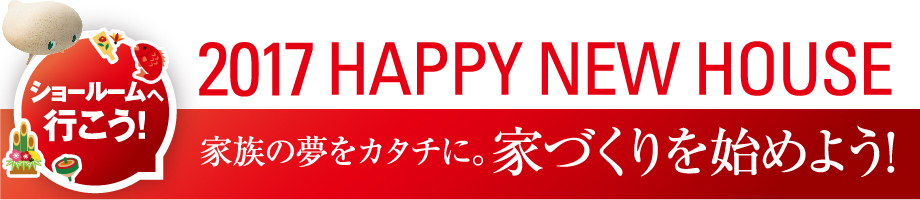
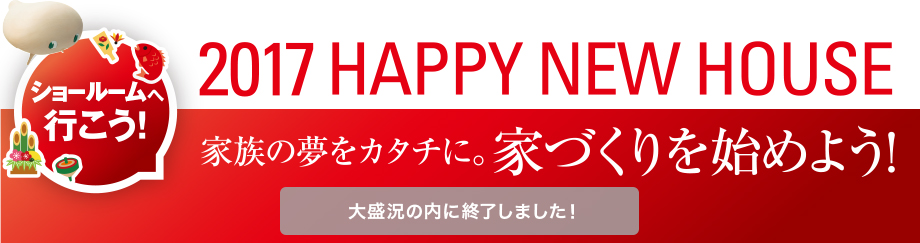
LPクローズド対応_PC

diff --git a/docs/pc/20170110.html b/docs/pc/20170110.html
@@ -45,105 +45,8 @@
                 </div>
 
                 <div class="section is-25">
-                    <div class="indexMapWrap mb-30 clearfix">
-                        <div class="mapWrap">
-                            <ul style="top: 40px; right: 0;">
-                                <li><a href="/ie/event/ken/1" style="background-image: url(http://sfc.jp/ie/event/images/ph2/map/btn-hokkaido.png);">北海道</a></li>
-                            </ul>
-
-                            <ul style="top: 40px; left: 286px;">
-                                <li><a href="/ie/event/ken/16" style="background-image: url(http://sfc.jp/ie/event/images/ph2/map/btn-toyama.png);">富山</a></li>
-                                <li><a href="/ie/event/ken/17" style="background-image: url(http://sfc.jp/ie/event/images/ph2/map/btn-ishikawa.png);">石川</a></li>
-                                <li><a href="/ie/event/ken/18" style="background-image: url(http://sfc.jp/ie/event/images/ph2/map/btn-fukui.png);">福井</a></li>
-                            </ul>
-
-                            <ul style="top: 40px; left: 344px;">
-                                <li><a href="/ie/event/ken/15" style="background-image: url(http://sfc.jp/ie/event/images/ph2/map/btn-niigata.png);">新潟</a></li>
-                                <li><a href="/ie/event/ken/20" style="background-image: url(http://sfc.jp/ie/event/images/ph2/map/btn-nagano.png);">長野</a></li>
-                                <li><a href="/ie/event/ken/19" style="background-image: url(http://sfc.jp/ie/event/images/ph2/map/btn-yamanashi.png);">山梨</a></li>
-                            </ul>
-
-                            <ul style="top: 90px; left: 200px;">
-                                <li><a href="/ie/event/ken/25" style="background-image: url(http://sfc.jp/ie/event/images/ph2/map/btn-shiga.png);">滋賀</a></li>
-                                <li><a href="/ie/event/ken/26" style="background-image: url(http://sfc.jp/ie/event/images/ph2/map/btn-kyoto.png);">京都</a></li>
-                                <li><a href="/ie/event/ken/29" style="background-image: url(http://sfc.jp/ie/event/images/ph2/map/btn-nara.png);">奈良</a></li>
-                            </ul>
-
-                            <ul style="top: 90px; left: 142px;">
-                                <li><a href="/ie/event/ken/28" style="background-image: url(http://sfc.jp/ie/event/images/ph2/map/btn-hyogo.png);">兵庫</a></li>
-                                <li><a href="/ie/event/ken/27" style="background-image: url(http://sfc.jp/ie/event/images/ph2/map/btn-osaka.png);">大阪</a></li>
-                                <li><a href="/ie/event/ken/30" style="background-image: url(http://sfc.jp/ie/event/images/ph2/map/btn-wakayama.png);">和歌山</a></li>
-                            </ul>
-
-                            <ul style="top: 56px; left: 0;">
-                                <li><a href="/ie/event/ken/32" style="background-image: url(http://sfc.jp/ie/event/images/ph2/map/btn-shimane.png);">島根</a></li>
-                                <li><a href="/ie/event/ken/34" style="background-image: url(http://sfc.jp/ie/event/images/ph2/map/btn-hiroshima.png);">広島</a></li>
-                                <li><a href="/ie/event/ken/35" style="background-image: url(http://sfc.jp/ie/event/images/ph2/map/btn-yamaguchi.png);">山口</a></li>
-                            </ul>
-
-                            <ul style="top: 56px; left: 58px;">
-                                <li><a href="/ie/event/ken/31" style="background-image: url(http://sfc.jp/ie/event/images/ph2/map/btn-tottori.png);">鳥取</a></li>
-                                <li><a href="/ie/event/ken/33" style="background-image: url(http://sfc.jp/ie/event/images/ph2/map/btn-okayama.png);">岡山</a></li>
-                            </ul>
-
-                            <ul style="top: 238px; left: 0;">
-                                <li><a href="/ie/event/ken/41" style="background-image: url(http://sfc.jp/ie/event/images/ph2/map/btn-saga.png);">佐賀</a></li>
-                                <li><a href="/ie/event/ken/42" style="background-image: url(http://sfc.jp/ie/event/images/ph2/map/btn-nagasaki.png);">長崎</a></li>
-                                <li><a href="/ie/event/ken/43" style="background-image: url(http://sfc.jp/ie/event/images/ph2/map/btn-kumamoto.png);">熊本</a></li>
-                                <li><a href="/ie/event/ken/46" style="background-image: url(http://sfc.jp/ie/event/images/ph2/map/btn-kagoshima.png);">鹿児島</a></li>
-                            </ul>
-
-                            <ul style="top: 238px; left: 58px;">
-                                <li><a href="/ie/event/ken/40" style="background-image: url(http://sfc.jp/ie/event/images/ph2/map/btn-fukuoka.png);">福岡</a></li>
-                                <li><a href="/ie/event/ken/44" style="background-image: url(http://sfc.jp/ie/event/images/ph2/map/btn-oita.png);">大分</a></li>
-                                <li><a href="/ie/event/ken/45" style="background-image: url(http://sfc.jp/ie/event/images/ph2/map/btn-miyazaki.png);">宮崎</a></li>
-                            </ul>
-
-                            <ul style="bottom: 0; left: 200px;">
-                                <li><a href="/ie/event/ken/38" style="background-image: url(http://sfc.jp/ie/event/images/ph2/map/btn-ehime.png);">愛媛</a></li>
-                                <li><a href="/ie/event/ken/39" style="background-image: url(http://sfc.jp/ie/event/images/ph2/map/btn-kouchi.png);">高知</a></li>
-                            </ul>
-
-                            <ul style="bottom: 0; left: 258px;">
-                                <li><a href="/ie/event/ken/37" style="background-image: url(http://sfc.jp/ie/event/images/ph2/map/btn-kagawa.png);">香川</a></li>
-                                <li><a href="/ie/event/ken/36" style="background-image: url(http://sfc.jp/ie/event/images/ph2/map/btn-tokushima.png);">徳島</a></li>
-                            </ul>
-
-                            <ul style="bottom: 32px; left: 372px;">
-                                <li><a href="/ie/event/ken/21" style="background-image: url(http://sfc.jp/ie/event/images/ph2/map/btn-gifu.png);">岐阜</a></li>
-                                <li><a href="/ie/event/ken/24" style="background-image: url(http://sfc.jp/ie/event/images/ph2/map/btn-mie.png);">三重</a></li>
-                            </ul>
-
-                            <ul style="bottom: 32px; left: 430px;">
-                                <li><a href="/ie/event/ken/22" style="background-image: url(http://sfc.jp/ie/event/images/ph2/map/btn-shizuoka.png);">静岡</a></li>
-                                <li><a href="/ie/event/ken/23" style="background-image: url(http://sfc.jp/ie/event/images/ph2/map/btn-aichi.png);">愛知</a></li>
-                            </ul>
-
-                            <ul style="bottom: 0; right: 58px;">
-                                <li><a href="/ie/event/ken/10" style="background-image: url(http://sfc.jp/ie/event/images/ph2/map/btn-gunma.png);">群馬</a></li>
-                                <li><a href="/ie/event/ken/11" style="background-image: url(http://sfc.jp/ie/event/images/ph2/map/btn-saitama.png);">埼玉</a></li>
-                                <li><a href="/ie/event/ken/13" style="background-image: url(http://sfc.jp/ie/event/images/ph2/map/btn-tokyo.png);">東京</a></li>
-                                <li><a href="/ie/event/ken/14" style="background-image: url(http://sfc.jp/ie/event/images/ph2/map/btn-kanagawa.png);">神奈川</a></li>
-                            </ul>
-
-                            <ul style="bottom: 34px; right: 0;">
-                                <li><a href="/ie/event/ken/9" style="background-image: url(http://sfc.jp/ie/event/images/ph2/map/btn-tochigi.png);">栃木</a></li>
-                                <li><a href="/ie/event/ken/8" style="background-image: url(http://sfc.jp/ie/event/images/ph2/map/btn-ibaraki.png);">茨城</a></li>
-                                <li><a href="/ie/event/ken/12" style="background-image: url(http://sfc.jp/ie/event/images/ph2/map/btn-chiba.png);">千葉</a></li>
-                            </ul>
-
-                            <ul style="top: 124px; left: 486px;">
-                                <li><a href="/ie/event/ken/2" style="background-image: url(http://sfc.jp/ie/event/images/ph2/map/btn-aomori.png);">青森</a></li>
-                                <li><a href="/ie/event/ken/5" style="background-image: url(http://sfc.jp/ie/event/images/ph2/map/btn-akita.png);" class="none">秋田</a></li>
-                                <li><a href="/ie/event/ken/6" style="background-image: url(http://sfc.jp/ie/event/images/ph2/map/btn-yamagata.png);">山形</a></li>
-                            </ul>
-
-                            <ul style="top: 124px; left: 544px;">
-                                <li><a href="/ie/event/ken/3" style="background-image: url(http://sfc.jp/ie/event/images/ph2/map/btn-iwate.png);">岩手</a></li>
-                                <li><a href="/ie/event/ken/4" style="background-image: url(http://sfc.jp/ie/event/images/ph2/map/btn-miyagi.png);">宮城</a></li>
-                                <li><a href="/ie/event/ken/7" style="background-image: url(http://sfc.jp/ie/event/images/ph2/map/btn-fukushima.png);">福島</a></li>
-                            </ul>
-                        </div>
+                    <div class="section" style="text-align: center;">
+                        <img src="images/map.png" alt="大盛況の内に終了しました！">
                     </div>
                 </div>
 
@@ -192,110 +95,11 @@
                 </div>
 
                 <div class="section is-25">
-                    <img src="images/obi.jpg" alt="全国の相談会・イベントはこちら">
+                    <img src="images/obi.jpg" alt="大盛況の内に終了しました！">
                 </div>
 
-                <div class="section">
-                    <div class="indexMapWrap mb-30 clearfix">
-                        <div class="mapWrap">
-                            <ul style="top: 40px; right: 0;">
-                                <li><a href="/ie/event/ken/1" style="background-image: url(http://sfc.jp/ie/event/images/ph2/map/btn-hokkaido.png);">北海道</a></li>
-                            </ul>
-
-                            <ul style="top: 40px; left: 286px;">
-                                <li><a href="/ie/event/ken/16" style="background-image: url(http://sfc.jp/ie/event/images/ph2/map/btn-toyama.png);">富山</a></li>
-                                <li><a href="/ie/event/ken/17" style="background-image: url(http://sfc.jp/ie/event/images/ph2/map/btn-ishikawa.png);">石川</a></li>
-                                <li><a href="/ie/event/ken/18" style="background-image: url(http://sfc.jp/ie/event/images/ph2/map/btn-fukui.png);">福井</a></li>
-                            </ul>
-
-                            <ul style="top: 40px; left: 344px;">
-                                <li><a href="/ie/event/ken/15" style="background-image: url(http://sfc.jp/ie/event/images/ph2/map/btn-niigata.png);">新潟</a></li>
-                                <li><a href="/ie/event/ken/20" style="background-image: url(http://sfc.jp/ie/event/images/ph2/map/btn-nagano.png);">長野</a></li>
-                                <li><a href="/ie/event/ken/19" style="background-image: url(http://sfc.jp/ie/event/images/ph2/map/btn-yamanashi.png);">山梨</a></li>
-                            </ul>
-
-                            <ul style="top: 90px; left: 200px;">
-                                <li><a href="/ie/event/ken/25" style="background-image: url(http://sfc.jp/ie/event/images/ph2/map/btn-shiga.png);">滋賀</a></li>
-                                <li><a href="/ie/event/ken/26" style="background-image: url(http://sfc.jp/ie/event/images/ph2/map/btn-kyoto.png);">京都</a></li>
-                                <li><a href="/ie/event/ken/29" style="background-image: url(http://sfc.jp/ie/event/images/ph2/map/btn-nara.png);">奈良</a></li>
-                            </ul>
-
-                            <ul style="top: 90px; left: 142px;">
-                                <li><a href="/ie/event/ken/28" style="background-image: url(http://sfc.jp/ie/event/images/ph2/map/btn-hyogo.png);">兵庫</a></li>
-                                <li><a href="/ie/event/ken/27" style="background-image: url(http://sfc.jp/ie/event/images/ph2/map/btn-osaka.png);">大阪</a></li>
-                                <li><a href="/ie/event/ken/30" style="background-image: url(http://sfc.jp/ie/event/images/ph2/map/btn-wakayama.png);">和歌山</a></li>
-                            </ul>
-
-                            <ul style="top: 56px; left: 0;">
-                                <li><a href="/ie/event/ken/32" style="background-image: url(http://sfc.jp/ie/event/images/ph2/map/btn-shimane.png);">島根</a></li>
-                                <li><a href="/ie/event/ken/34" style="background-image: url(http://sfc.jp/ie/event/images/ph2/map/btn-hiroshima.png);">広島</a></li>
-                                <li><a href="/ie/event/ken/35" style="background-image: url(http://sfc.jp/ie/event/images/ph2/map/btn-yamaguchi.png);">山口</a></li>
-                            </ul>
-
-                            <ul style="top: 56px; left: 58px;">
-                                <li><a href="/ie/event/ken/31" style="background-image: url(http://sfc.jp/ie/event/images/ph2/map/btn-tottori.png);">鳥取</a></li>
-                                <li><a href="/ie/event/ken/33" style="background-image: url(http://sfc.jp/ie/event/images/ph2/map/btn-okayama.png);">岡山</a></li>
-                            </ul>
-
-                            <ul style="top: 238px; left: 0;">
-                                <li><a href="/ie/event/ken/41" style="background-image: url(http://sfc.jp/ie/event/images/ph2/map/btn-saga.png);">佐賀</a></li>
-                                <li><a href="/ie/event/ken/42" style="background-image: url(http://sfc.jp/ie/event/images/ph2/map/btn-nagasaki.png);">長崎</a></li>
-                                <li><a href="/ie/event/ken/43" style="background-image: url(http://sfc.jp/ie/event/images/ph2/map/btn-kumamoto.png);">熊本</a></li>
-                                <li><a href="/ie/event/ken/46" style="background-image: url(http://sfc.jp/ie/event/images/ph2/map/btn-kagoshima.png);">鹿児島</a></li>
-                            </ul>
-
-                            <ul style="top: 238px; left: 58px;">
-                                <li><a href="/ie/event/ken/40" style="background-image: url(http://sfc.jp/ie/event/images/ph2/map/btn-fukuoka.png);">福岡</a></li>
-                                <li><a href="/ie/event/ken/44" style="background-image: url(http://sfc.jp/ie/event/images/ph2/map/btn-oita.png);">大分</a></li>
-                                <li><a href="/ie/event/ken/45" style="background-image: url(http://sfc.jp/ie/event/images/ph2/map/btn-miyazaki.png);">宮崎</a></li>
-                            </ul>
-
-                            <ul style="bottom: 0; left: 200px;">
-                                <li><a href="/ie/event/ken/38" style="background-image: url(http://sfc.jp/ie/event/images/ph2/map/btn-ehime.png);">愛媛</a></li>
-                                <li><a href="/ie/event/ken/39" style="background-image: url(http://sfc.jp/ie/event/images/ph2/map/btn-kouchi.png);">高知</a></li>
-                            </ul>
-
-                            <ul style="bottom: 0; left: 258px;">
-                                <li><a href="/ie/event/ken/37" style="background-image: url(http://sfc.jp/ie/event/images/ph2/map/btn-kagawa.png);">香川</a></li>
-                                <li><a href="/ie/event/ken/36" style="background-image: url(http://sfc.jp/ie/event/images/ph2/map/btn-tokushima.png);">徳島</a></li>
-                            </ul>
-
-                            <ul style="bottom: 32px; left: 372px;">
-                                <li><a href="/ie/event/ken/21" style="background-image: url(http://sfc.jp/ie/event/images/ph2/map/btn-gifu.png);">岐阜</a></li>
-                                <li><a href="/ie/event/ken/24" style="background-image: url(http://sfc.jp/ie/event/images/ph2/map/btn-mie.png);">三重</a></li>
-                            </ul>
-
-                            <ul style="bottom: 32px; left: 430px;">
-                                <li><a href="/ie/event/ken/22" style="background-image: url(http://sfc.jp/ie/event/images/ph2/map/btn-shizuoka.png);">静岡</a></li>
-                                <li><a href="/ie/event/ken/23" style="background-image: url(http://sfc.jp/ie/event/images/ph2/map/btn-aichi.png);">愛知</a></li>
-                            </ul>
-
-                            <ul style="bottom: 0; right: 58px;">
-                                <li><a href="/ie/event/ken/10" style="background-image: url(http://sfc.jp/ie/event/images/ph2/map/btn-gunma.png);">群馬</a></li>
-                                <li><a href="/ie/event/ken/11" style="background-image: url(http://sfc.jp/ie/event/images/ph2/map/btn-saitama.png);">埼玉</a></li>
-                                <li><a href="/ie/event/ken/13" style="background-image: url(http://sfc.jp/ie/event/images/ph2/map/btn-tokyo.png);">東京</a></li>
-                                <li><a href="/ie/event/ken/14" style="background-image: url(http://sfc.jp/ie/event/images/ph2/map/btn-kanagawa.png);">神奈川</a></li>
-                            </ul>
-
-                            <ul style="bottom: 34px; right: 0;">
-                                <li><a href="/ie/event/ken/9" style="background-image: url(http://sfc.jp/ie/event/images/ph2/map/btn-tochigi.png);">栃木</a></li>
-                                <li><a href="/ie/event/ken/8" style="background-image: url(http://sfc.jp/ie/event/images/ph2/map/btn-ibaraki.png);">茨城</a></li>
-                                <li><a href="/ie/event/ken/12" style="background-image: url(http://sfc.jp/ie/event/images/ph2/map/btn-chiba.png);">千葉</a></li>
-                            </ul>
-
-                            <ul style="top: 124px; left: 486px;">
-                                <li><a href="/ie/event/ken/2" style="background-image: url(http://sfc.jp/ie/event/images/ph2/map/btn-aomori.png);">青森</a></li>
-                                <li><a href="/ie/event/ken/5" style="background-image: url(http://sfc.jp/ie/event/images/ph2/map/btn-akita.png);" class="none">秋田</a></li>
-                                <li><a href="/ie/event/ken/6" style="background-image: url(http://sfc.jp/ie/event/images/ph2/map/btn-yamagata.png);">山形</a></li>
-                            </ul>
-
-                            <ul style="top: 124px; left: 544px;">
-                                <li><a href="/ie/event/ken/3" style="background-image: url(http://sfc.jp/ie/event/images/ph2/map/btn-iwate.png);">岩手</a></li>
-                                <li><a href="/ie/event/ken/4" style="background-image: url(http://sfc.jp/ie/event/images/ph2/map/btn-miyagi.png);">宮城</a></li>
-                                <li><a href="/ie/event/ken/7" style="background-image: url(http://sfc.jp/ie/event/images/ph2/map/btn-fukushima.png);">福島</a></li>
-                            </ul>
-                        </div>
-                    </div>
+                <div class="section" style="text-align: center;">
+                    <img src="images/map.png" alt="大盛況の内に終了しました！">
                 </div>
 
                 <p class="gtop">
